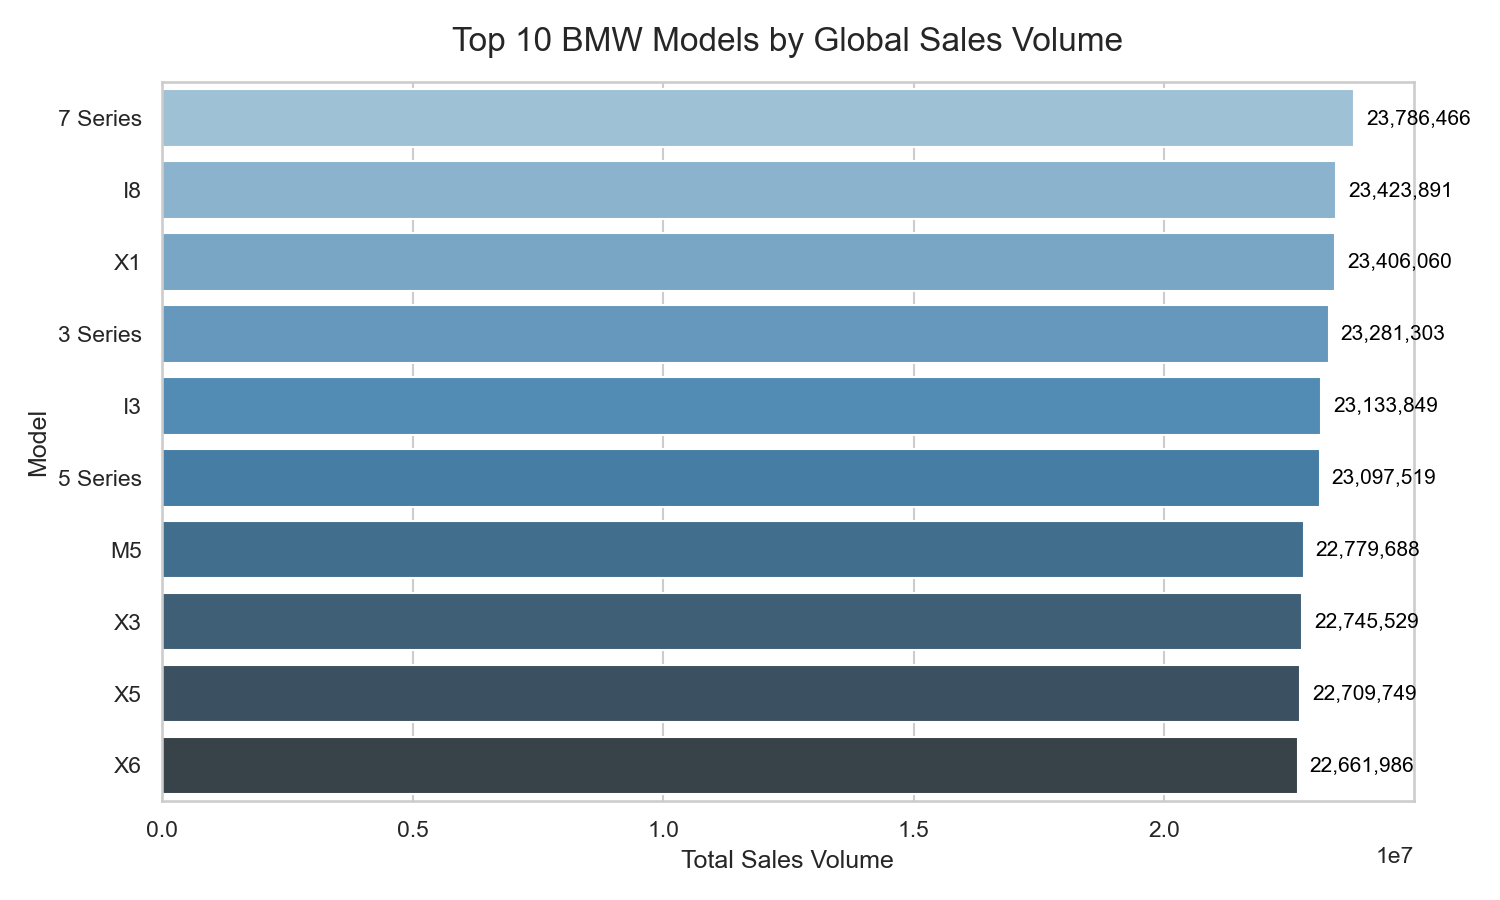
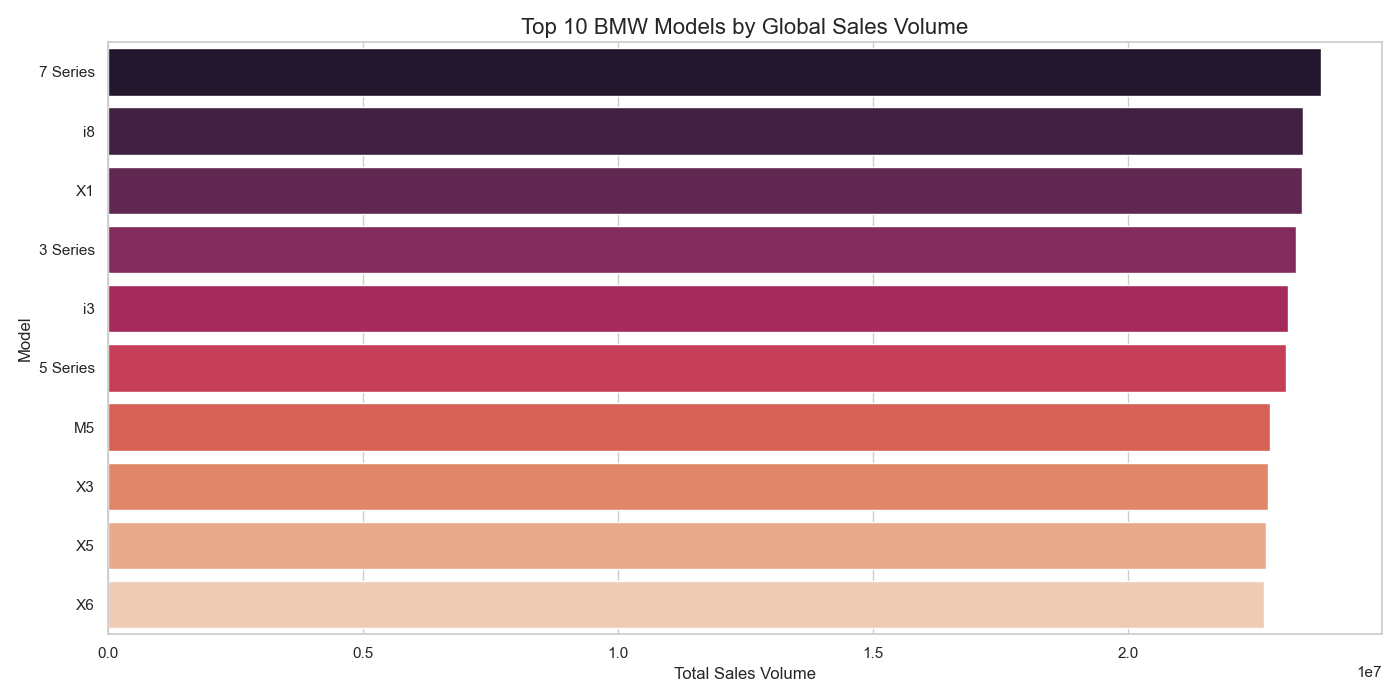
Presentation Update

diff --git a/_site/Final_Presentation.html b/_site/Final_Presentation.html
@@ -372,6 +372,29 @@ Min Set Khant (Solo)
 </table>
 <p>Detail: The analysis utilized over <strong>50,000 records</strong> of multi-regional sales. Regional features were processed using <strong>One-Hot Encoding</strong> to prevent models from assigning arbitrary ordinal relationships to categories.</p>
 </section>
+<section id="global-market-demand" class="slide level2">
+<h2>Global Market Demand</h2>
+<h3 id="global-market-demand-top-10-models">Global Market Demand: Top 10 Models</h3>
+<table class="caption-top">
+<colgroup>
+<col style="width: 100%">
+</colgroup>
+<thead>
+<tr class="header">
+<th>Volume by Model (2010–2024)</th>
+</tr>
+</thead>
+<tbody>
+<tr class="odd">
+<td><img data-src="visuals/top10_models_global.png"></td>
+</tr>
+<tr class="even">
+<td>Insight:Globally, sales volume is often dominated by **core sedan and SUV series** (e.g., 3-Series, 5-Series, X3, X5), reflecting high overall market liquidity.</td>
+</tr>
+</tbody>
+</table>
+<p>Impact:Models with high global volume typically exhibit more **stable pricing** due to consistent demand, which reduces prediction volatility. EDA Detail:This volume data was analyzed *before* the temporal split to understand the underlying market foundation across all years. |</p>
+</section>
 <section id="eda-correlation-analysis" class="slide level2">
 <h2>EDA: Correlation Analysis</h2>
 <h3 id="price-relationships">Price Relationships</h3>
@@ -415,11 +438,11 @@ Min Set Khant (Solo)
 <section id="random-forest-performance" class="slide level2">
 <h2>Random Forest Performance</h2>
 <h3 id="model-accuracy-reporting-in-usd">Model Accuracy (Reporting in USD)</h3>
-<table class="caption-top">
+<table class="caption-top" style="width:100%;">
 <colgroup>
 <col style="width: 33%">
-<col style="width: 33%">
-<col style="width: 33%">
+<col style="width: 31%">
+<col style="width: 34%">
 </colgroup>
 <thead>
 <tr class="header">
@@ -470,7 +493,7 @@ Min Set Khant (Solo)
 </thead>
 <tbody>
 <tr class="odd">
-<td style="text-align: center;"><img data-src="../visuals/rf_feature_importance.png"></td>
+<td style="text-align: center;"><img data-src="visuals/rf_feature_importance.png"></td>
 </tr>
 </tbody>
 </table>
